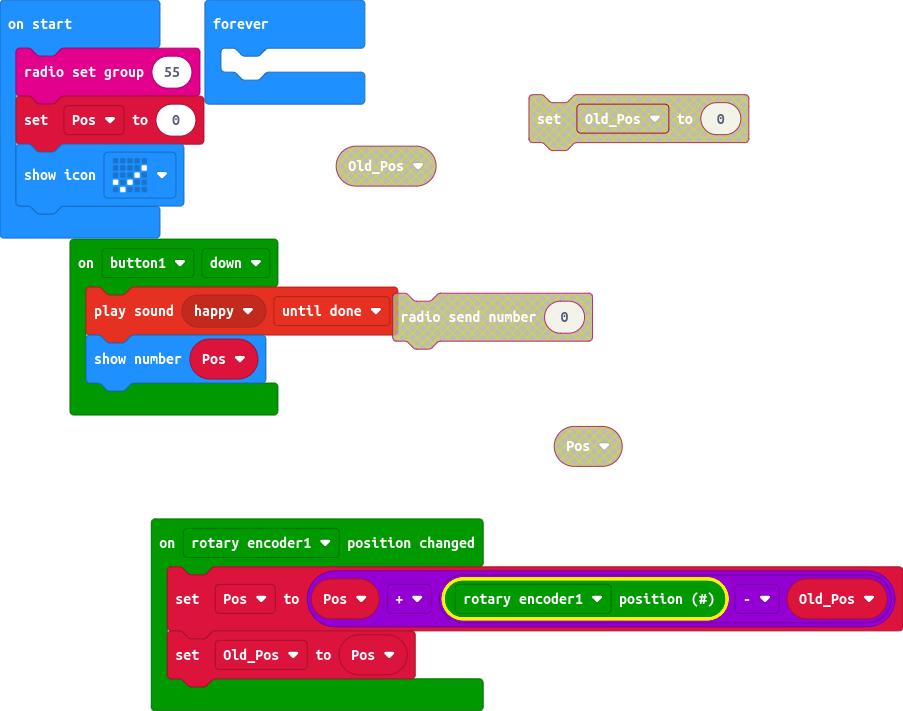
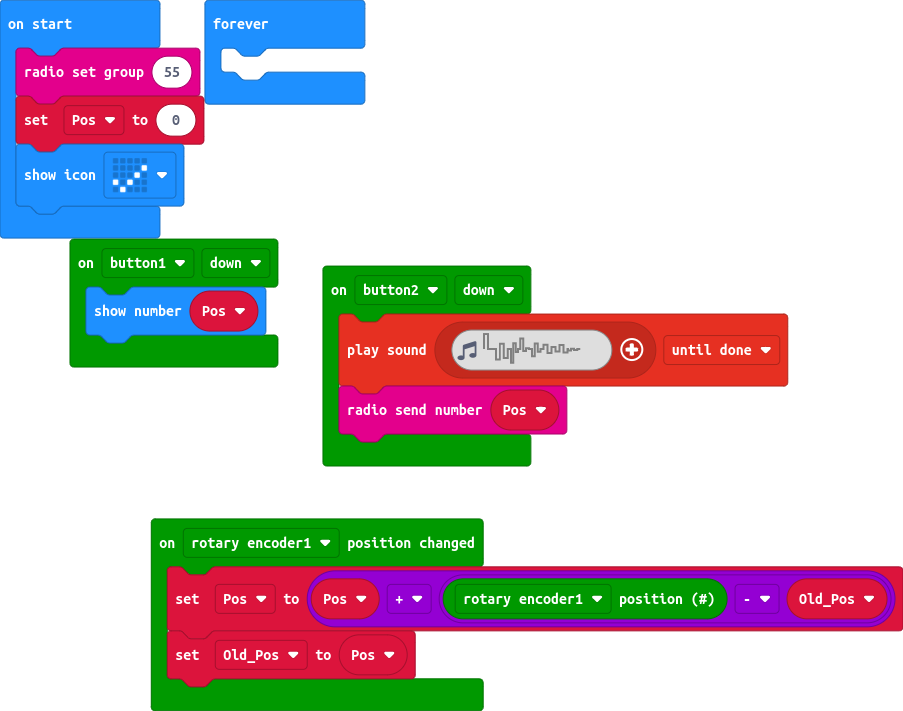
add 2nd button . play sound on transmit pos

diff --git a/main.ts b/main.ts
@@ -3,8 +3,11 @@ modules.rotaryEncoder1.onPositionChanged(function () {
     Old_Pos = Pos
 })
 modules.button1.onEvent(jacdac.ButtonEvent.Down, function () {
-    music.playSoundEffect(music.builtinSoundEffect(soundExpression.happy), SoundExpressionPlayMode.UntilDone)
     basic.showNumber(Pos)
+})
+modules.button2.onEvent(jacdac.ButtonEvent.Down, function () {
+    music.playSoundEffect(music.createSoundEffect(WaveShape.Noise, 1000, 999, 255, 0, 471, SoundExpressionEffect.None, InterpolationCurve.Curve), SoundExpressionPlayMode.UntilDone)
+    radio.sendNumber(Pos)
 })
 let Old_Pos = 0
 let Pos = 0
